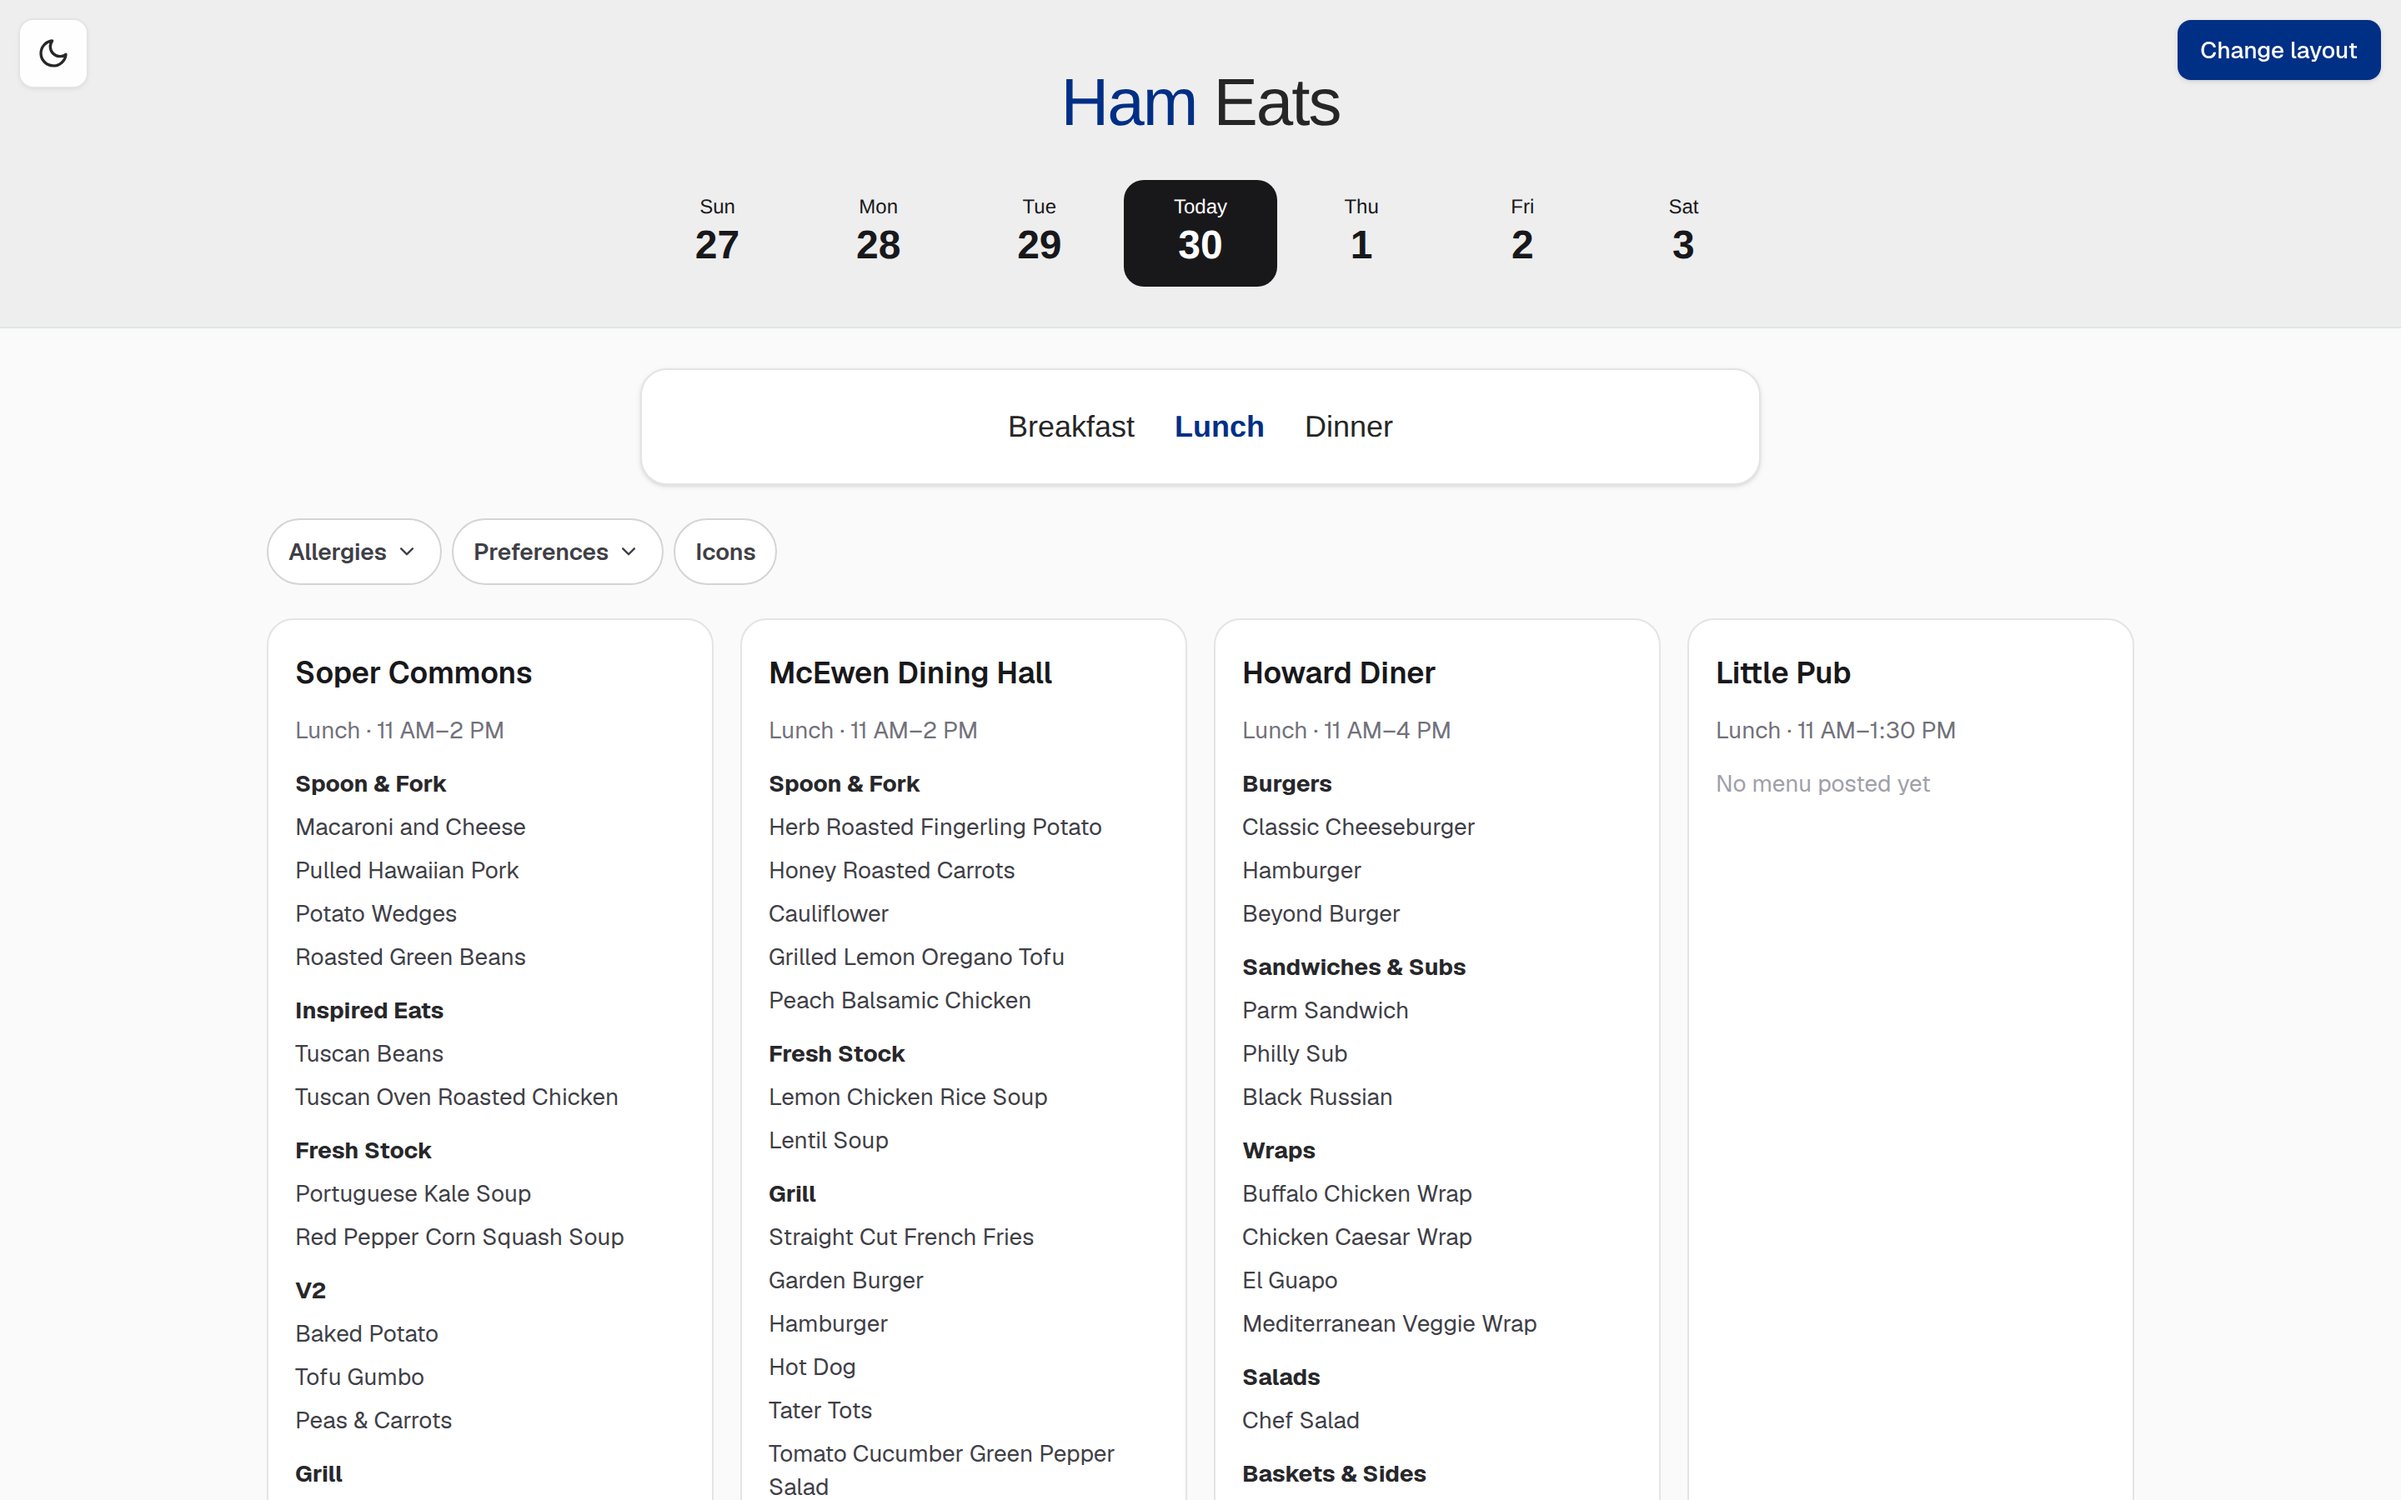
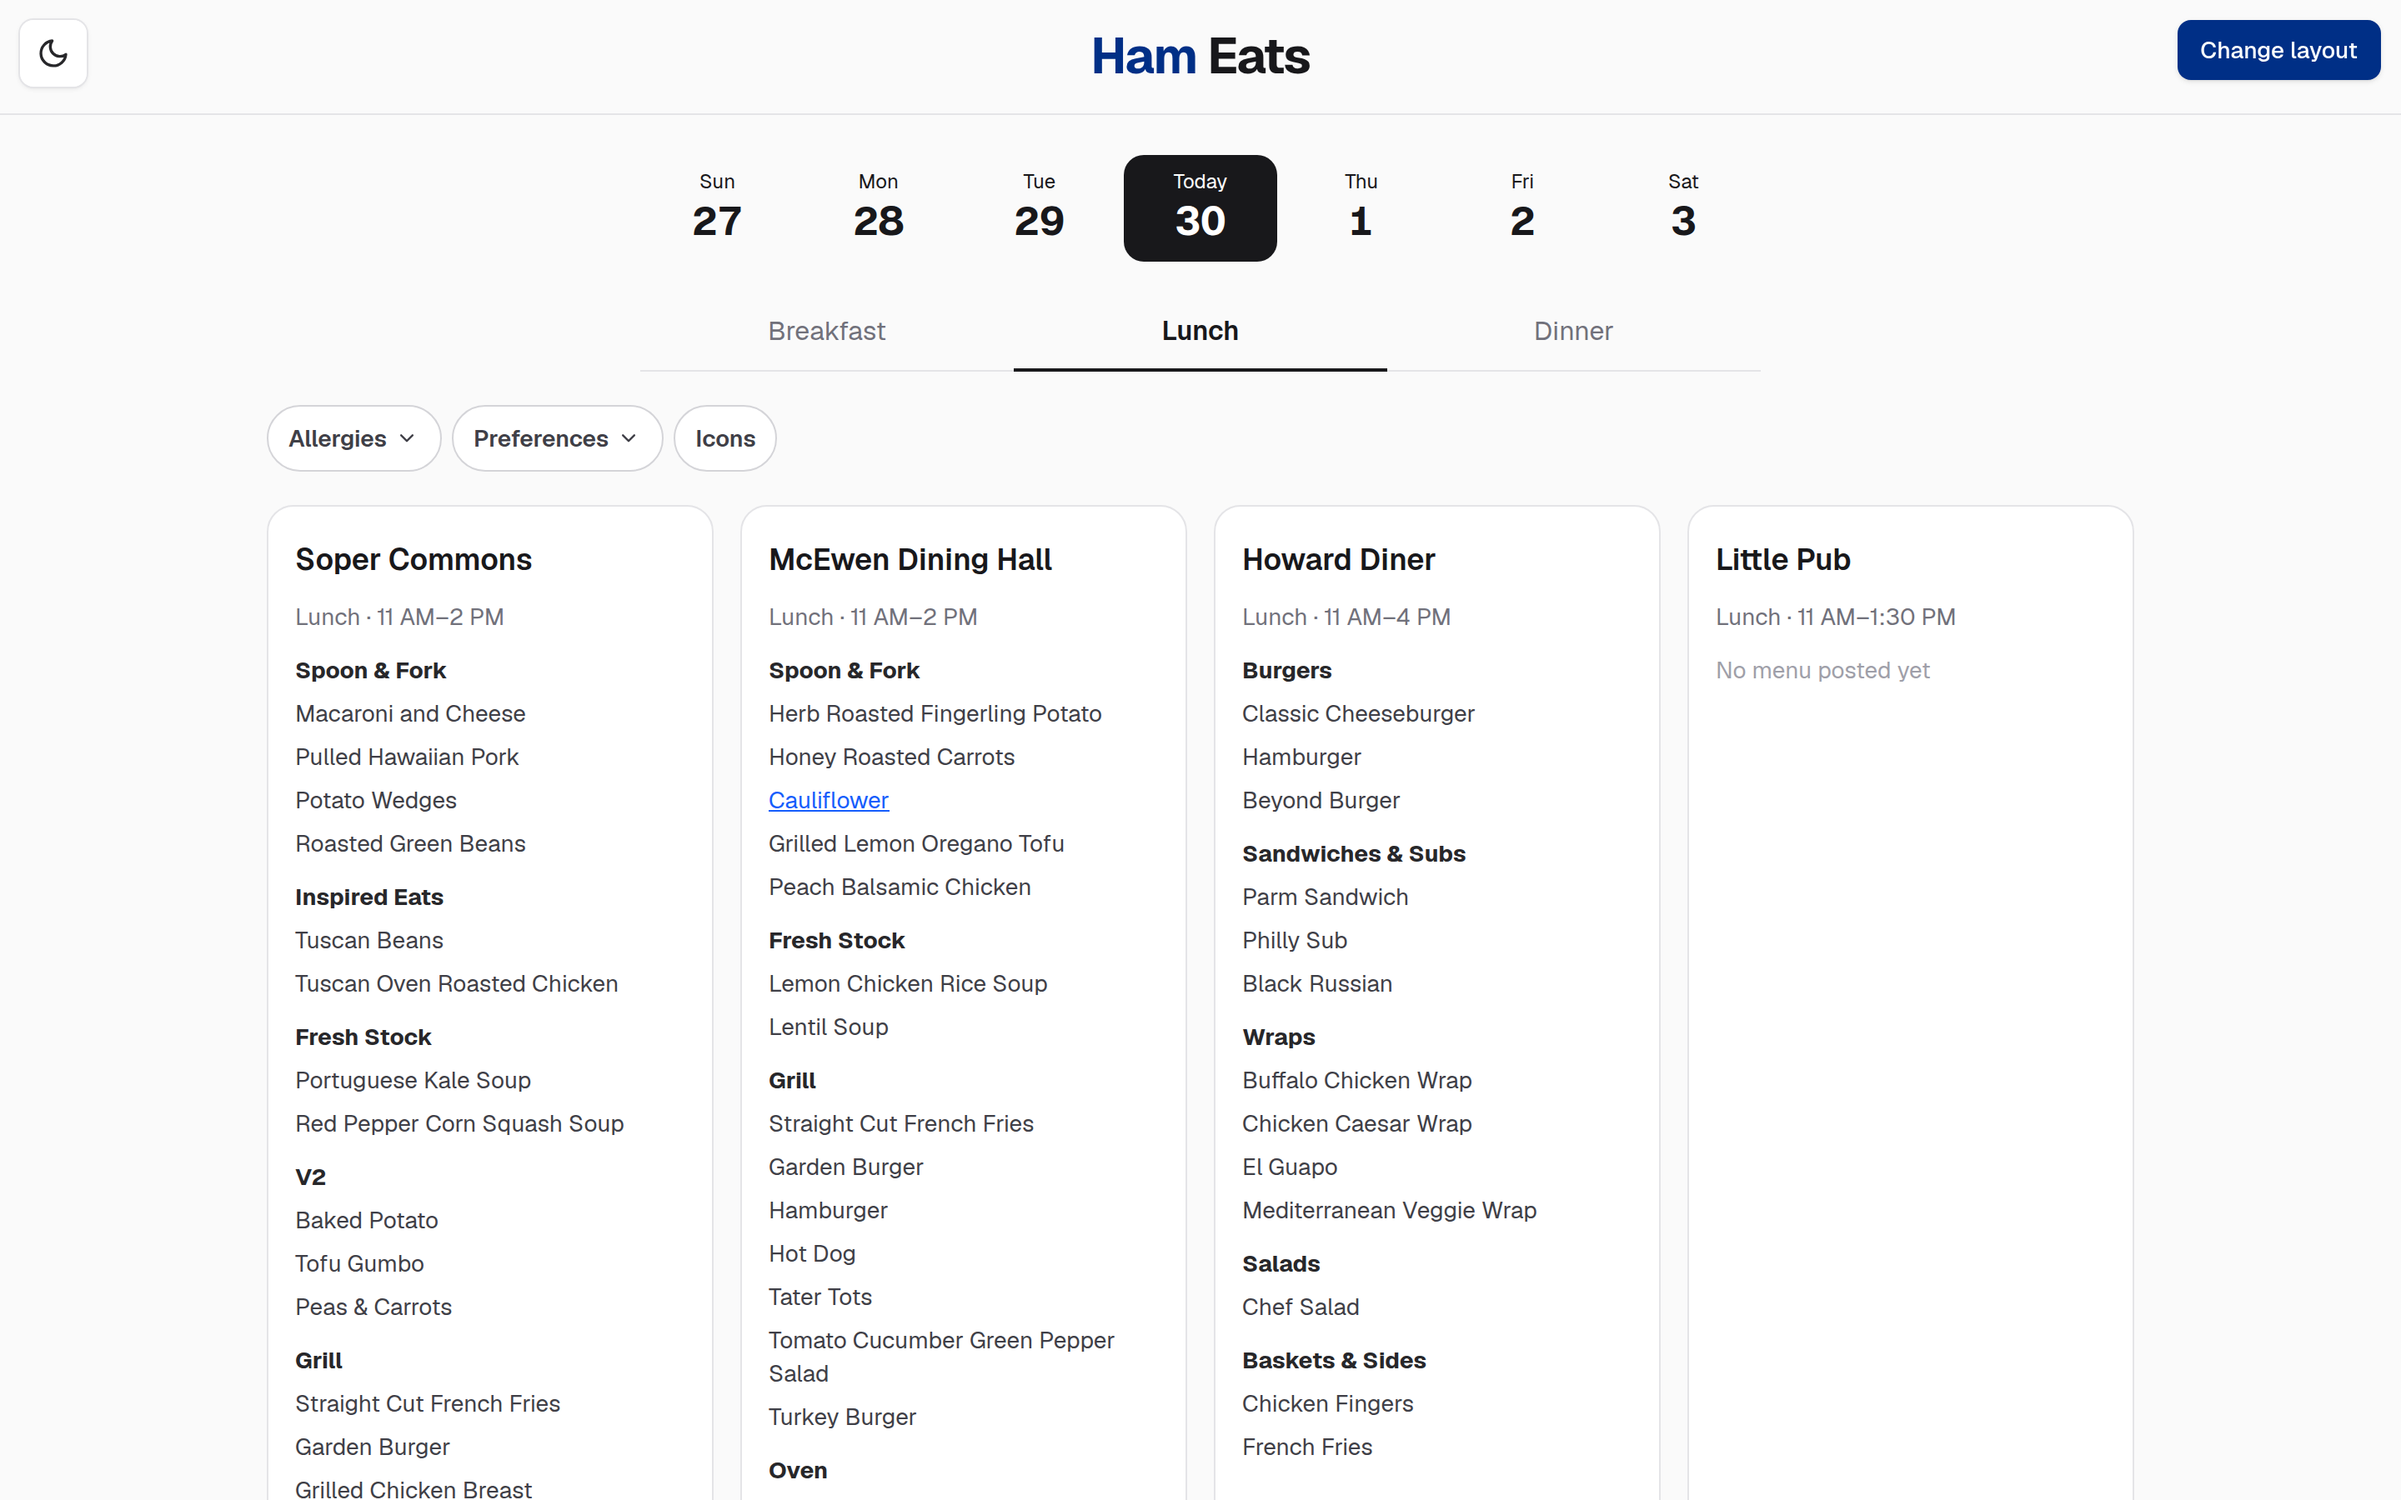
Continental: use Classic's plain sticky header instead of the jumbotron
Drop the gray TigerMenus-style banner and the per-hall hours panel it
would've needed; put the Ham Eats logo in a plain sticky bar like
Classic uses, with the day picker and Classic's underline-style meal
tabs stacked below it on the regular page background.

diff --git a/web/components/home/NetNutritionHomeLayout.tsx b/web/components/home/NetNutritionHomeLayout.tsx
@@ -5,9 +5,9 @@ import { createPortal } from "react-dom";
 import { HALLS, orderedStations, type Hall } from "@/lib/halls";
 import { compactRange, dowOf, mealNow, statusAt, type CampusTime } from "@/lib/hours";
 import type { HomeLayoutProps } from "@/lib/homeLayouts";
-import { type Meal, type MenuItem } from "@/lib/types";
+import { MEALS, type Meal, type MenuItem } from "@/lib/types";
+import { DayPicker } from "@/components/DayPicker";
 import { ItemSheet } from "@/components/ItemSheet";
-import { MealHeader, MealTabsBar } from "@/components/home/MealHeader";
 import { Tags } from "@/components/Tags";
 import { track } from "@/lib/analytics";
 
@@ -455,19 +455,45 @@ export function NetNutritionHomeLayout({ data, now }: HomeLayoutProps) {
 
   return (
     <div>
-      <MealHeader
-        dates={dates}
-        selected={date}
-        today={now.iso}
-        onSelectDate={(d) => {
-          setPickedDate(d);
-          track("continental_day_picked", { date: d });
-        }}
-      />
+      <header className="sticky top-0 z-10 border-b border-zinc-200 bg-zinc-50/90 backdrop-blur dark:border-zinc-800 dark:bg-zinc-950/90">
+        <h1 className="py-4 text-center text-3xl font-bold tracking-tight">
+          <span className="text-accent">Ham</span> Eats
+        </h1>
+      </header>
 
       <main className="mx-auto max-w-6xl px-4 py-6">
         <div className="mx-auto mb-5 max-w-2xl">
-          <MealTabsBar meal={meal} onSelectMeal={setMeal} />
+          <DayPicker
+            dates={dates}
+            selected={date}
+            today={now.iso}
+            onSelect={(d) => {
+              setPickedDate(d);
+              track("continental_day_picked", { date: d });
+            }}
+          />
+        </div>
+
+        <div
+          role="tablist"
+          aria-label="Meal"
+          className="mx-auto mb-5 flex max-w-2xl border-b border-zinc-200 dark:border-zinc-800"
+        >
+          {MEALS.map((m) => (
+            <button
+              key={m}
+              role="tab"
+              aria-selected={m === meal}
+              onClick={() => setMeal(m)}
+              className={`-mb-px flex-1 border-b-2 py-2.5 text-base ${
+                m === meal
+                  ? "border-zinc-900 font-semibold dark:border-white"
+                  : "border-transparent text-zinc-500"
+              }`}
+            >
+              {m}
+            </button>
+          ))}
         </div>
 
         <div className="mb-5">
